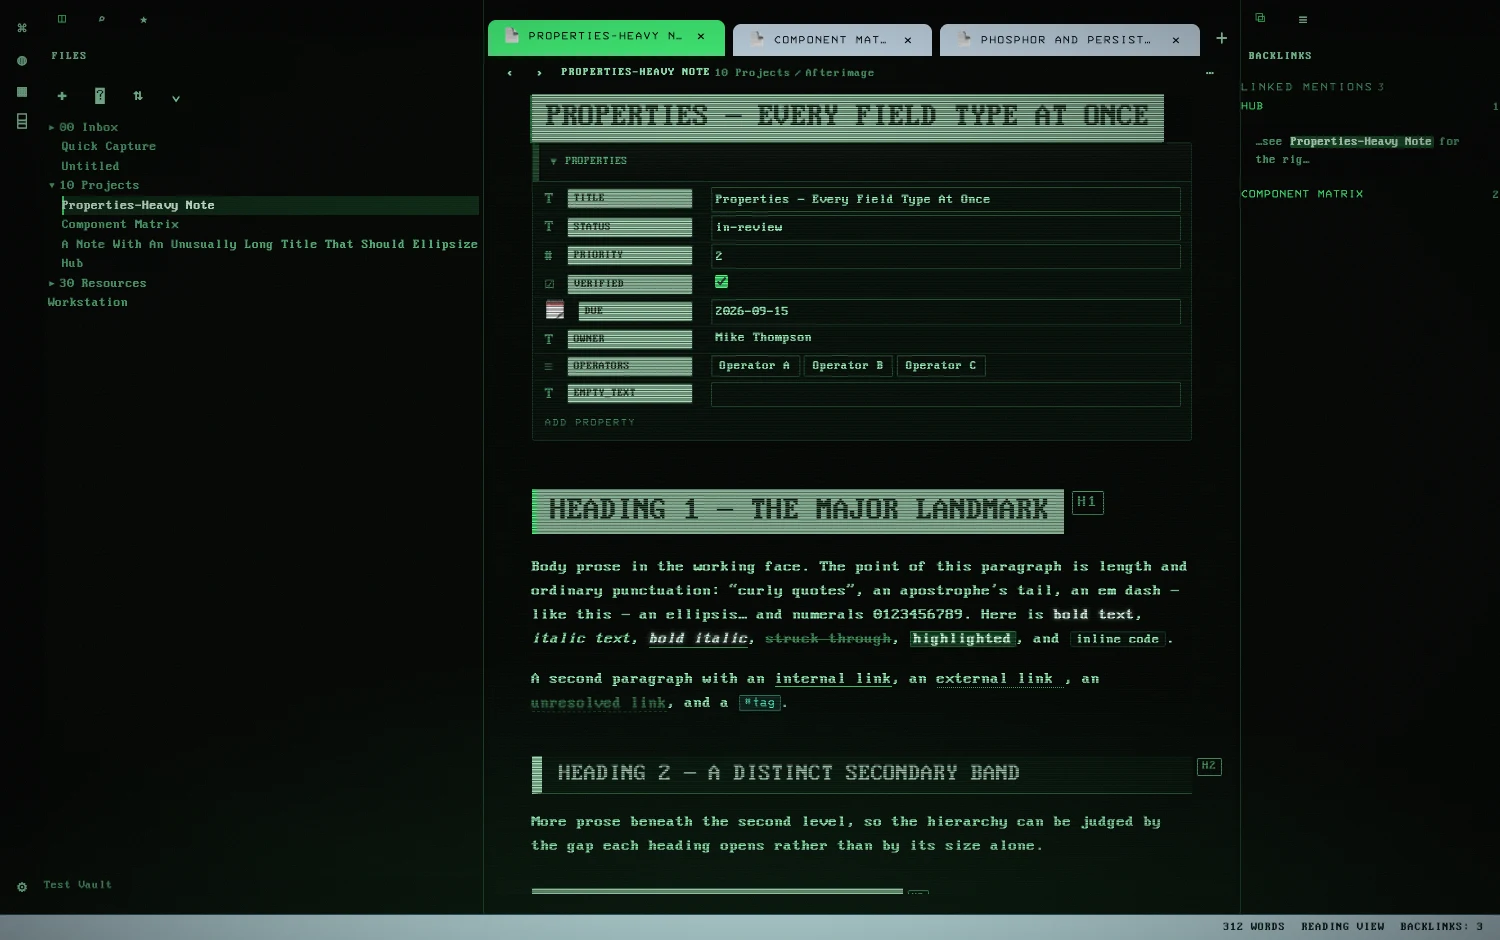
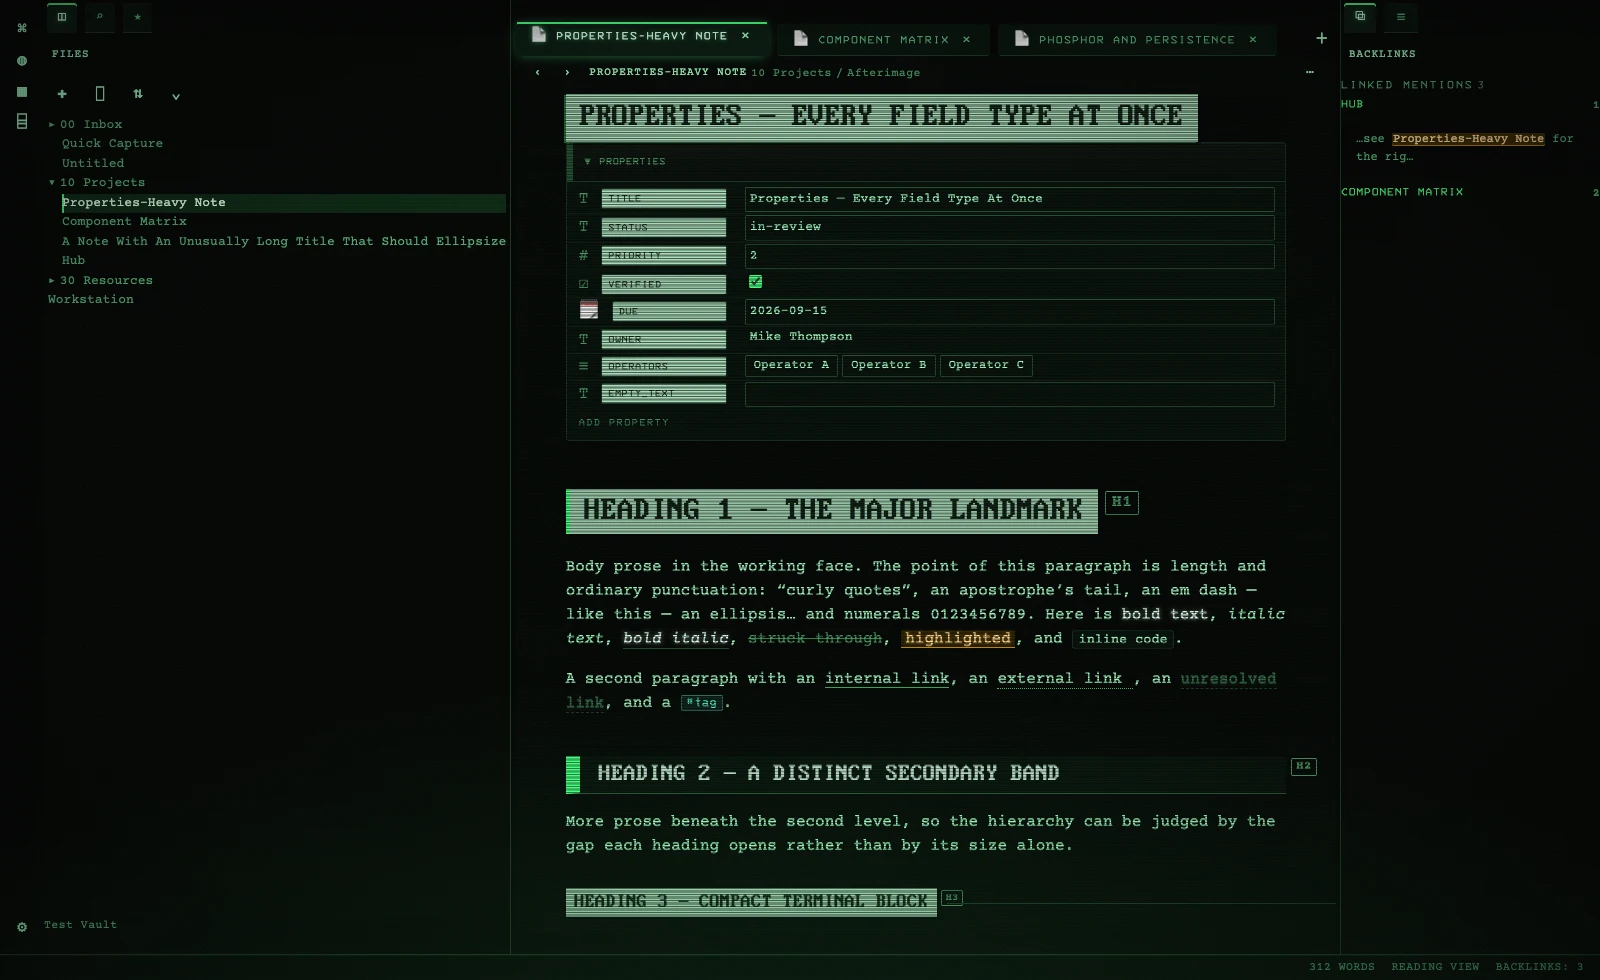
docs: refresh screenshots after the 1x retune
Re-rendered at 1x rather than 2x — the resolution the theme is actually
judged at — and swapped the Typewriter capture for IBM DOS, since
Typewriter is now the default and shown in the hero.

diff --git a/README.md b/README.md
@@ -67,8 +67,8 @@ stacking bloom and afterimage on top turns long prose to mush — which is why
 it is one keystroke away rather than the default.
 
 <table>
-<tr><td><img src="screenshots/preset-3270.webp" alt="3270 preset"><br><sub><b>3270</b></sub></td>
-    <td><img src="screenshots/preset-typewriter.webp" alt="Typewriter preset"><br><sub><b>Typewriter</b></sub></td></tr>
+<tr><td><img src="screenshots/preset-ibm-dos.webp" alt="IBM DOS preset"><br><sub><b>IBM DOS</b></sub></td>
+    <td><img src="screenshots/preset-3270.webp" alt="3270 preset"><br><sub><b>3270</b></sub></td></tr>
 </table>
 
 Two things about the IBM DOS preset are worth knowing if you switch to it:
